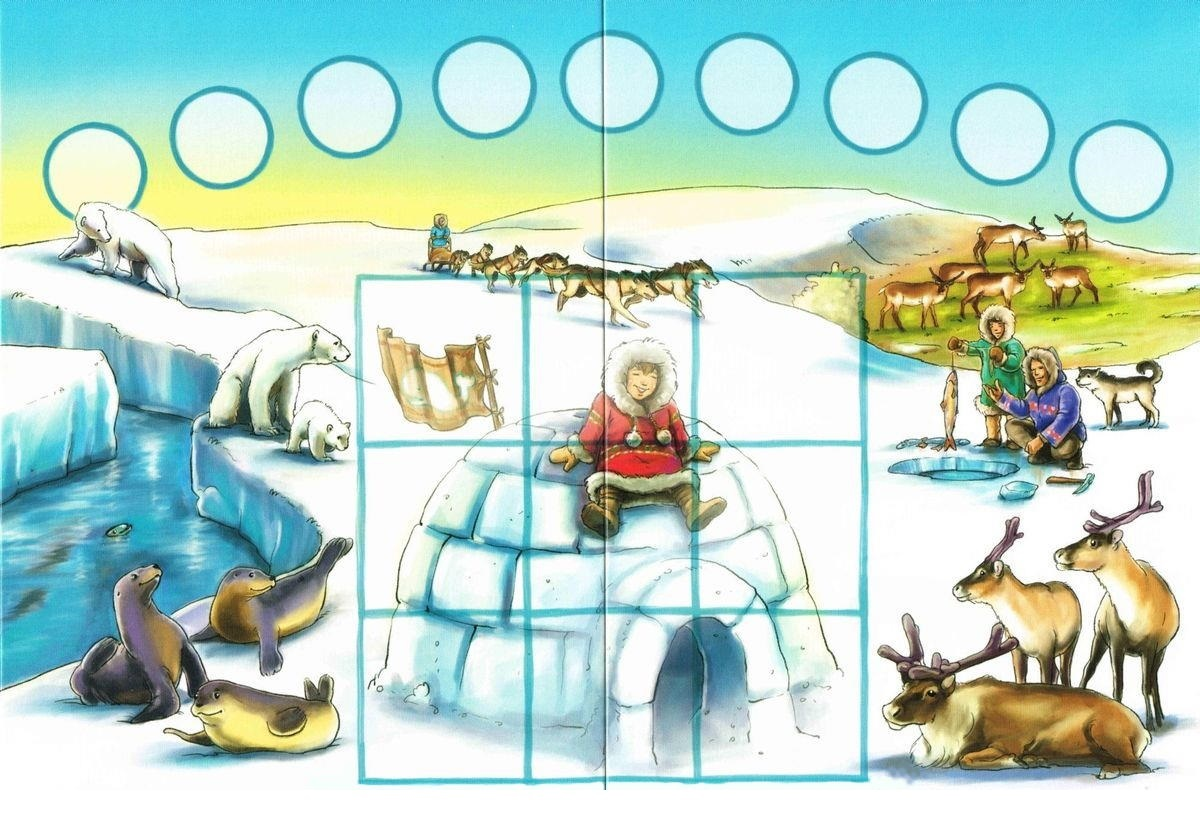
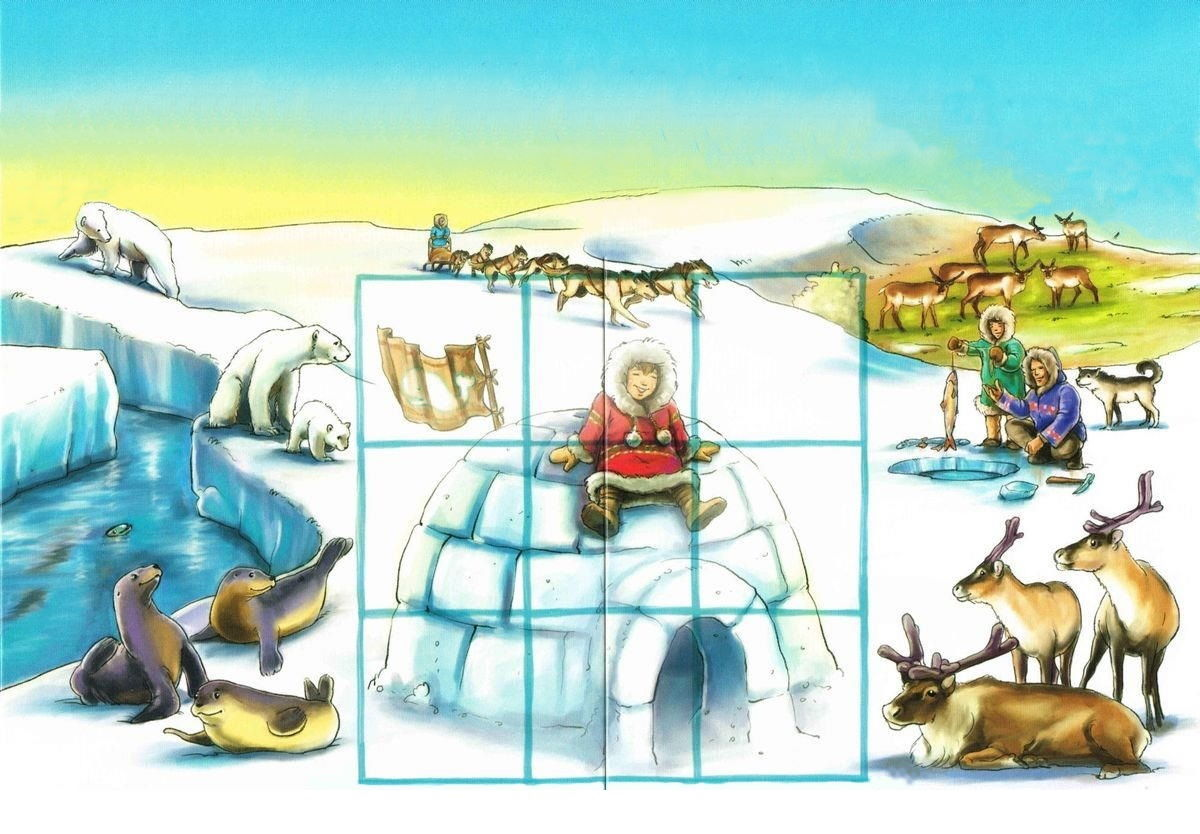
make sun position calculation dynamic, remove board template part

Changed region(s): [[0.0, 0.0, 1.0, 0.2806], [0.4933, 0.2806, 0.5242, 0.3118]]

diff --git a/assets/js/script.js b/assets/js/script.js
@@ -157,6 +157,8 @@ class Evaluation {
 const gameViewer = {
   imagePath: './assets/img/',
 
+  numberOfSunPositions: 9,
+
   tileFaces: [
     { name: Tile.NAME_REINDEER(), filename: 'tileface-reindeer.jpg', count: 9 },
     { name: Tile.NAME_POLARBEAR(), filename: 'tileface-polarbear.jpg', count: 14 },
@@ -180,7 +182,9 @@ const gameViewer = {
   ],
 
   icons: [
-    { name: 'collect-tiles', filename: 'icon-collect-tiles.png', clickable: true, parentId: 'title', height: '9vh', topLeftCorner: [0, 0.885] },
+    { name: 'collect-tiles', count: 1, filename: 'icon-collect-tiles.png', clickable: true, parentId: 'title', height: 0.08, leftTopCorners: [[0.885, 0]] },
+    { name: 'sun-position', count: 9, filename: 'icon-sun-position.png', clickable: false, parentId: 'title', height: 0.05, leftTopCorners: [] },
+    { name: 'piece-sun', count: 1, filename: 'piece-sun.png', clickable: false, parentId: 'title', height: 0.05, leftTopCorners: [] },
   ],
 
   tileBack: { filename: 'tileback-ice.jpg', flipTimeMS: 800 },
@@ -193,23 +197,6 @@ const gameViewer = {
     meepleOnBoardWidth: 0.025,
     meeplesOnBoardFromTop: 0.65,
     meeplesOnBoardFromLeft: [0.02, 0.16, 0.73, 0.86],
-  },
-
-  sunPiece: { id: 'piece-sun', filename: 'piece-sun.png', length: 0.08556 },
-
-  sunPositions: {
-    id: 'piece-sun-positions',
-    filename: 'enuk-sun-positions.png',
-    centers: [
-      [0.146, 0.0728],
-      [0.115, 0.185],
-      [0.09, 0.291],
-      [0.074, 0.404],
-      [0.068, 0.51],
-      [0.07, 0.622],
-      [0.086, 0.73],
-      [0.112, 0.835],
-      [0.143, 0.935]],
   },
 
   meeplePieces: [
@@ -225,14 +212,49 @@ const gameViewer = {
     bodyElement.style.backgroundImage = `url("${this.imagePath}${backgroundFile}")`;
   },
 
+  calculateSunPositions: function (rectWidth, rectHeight, iconSideLength, numberOfPositions) {
+    sunPositions = [];
+    const halfIconSideLength = iconSideLength / 2;
+
+    // calculate r radius
+    // learnt about Math.pow() here: https://developer.mozilla.org/en-US/docs/Web/JavaScript/Reference/Global_Objects/Math/pow
+    const r = Math.pow(rectWidth - iconSideLength, 2) / 8 / (rectHeight - iconSideLength) + (rectHeight - iconSideLength) / 2;
+    // calculate angle between 2 adjacent positions
+    // learnt about Math.asin() here: https://developer.mozilla.org/en-US/docs/Web/JavaScript/Reference/Global_Objects/Math/asin
+    const opposite = (rectWidth - iconSideLength) / 2;
+    const hypotenuse = r;
+    const angleStartToFinish = 2 * Math.asin(opposite / hypotenuse);
+    const angleOnePos = angleStartToFinish / (numberOfPositions - 1);
+
+    // learnt about rotation here: https://math.stackexchange.com/questions/270194/how-to-find-the-vertices-angle-after-rotation
+    // rotate point (x,y) into (x′,y′) about point (p,q) counterclockwise by angle θ
+    // x′ = (x−p)cos(θ) − (y−q)sin(θ) + p
+    // y′ = (x−p)sin(θ) + (y−q)cos(θ) + q
+
+    // calculate rotation center (p,q)
+    p = rectWidth / 2;
+    q = iconSideLength / 2 + r;
+    // set up first position (left hand side)
+    let x0 = iconSideLength / 2;
+    let y0 = rectHeight - iconSideLength / 2;
+    // store the icon's top-left corner as (distance from Left side, distance from Top)
+    sunPositions.push([(x0 - halfIconSideLength) / rectWidth, (y0 - halfIconSideLength) / rectWidth]);
+    // calculate rest of the positions relative to the first positon by increasing the angle
+    let angle = 0;
+    for (let i = 1; i < numberOfPositions; i++) {
+      angle += angleOnePos;
+      x = (x0 - p) * Math.cos(angle) - (y0 - q) * Math.sin(angle) + p;
+      y = (x0 - p) * Math.sin(angle) + (y0 - q) * Math.cos(angle) + q;
+      sunPositions.push([(x - halfIconSideLength) / rectWidth, (y - halfIconSideLength) / rectWidth]);
+    }
+    return sunPositions;
+  },
+
   generateGameBoard: function (tiles, tilesOnTable, players, isTest) {
     // put game board in place
     let boardPiecesHTML = "";
     // add BOARD to game space
     boardPiecesHTML = `<img id="${this.boardPiece.id}" src="${this.imagePath}${this.boardPiece.name}" alt="game board">`;
-
-    // addd SUN piece to the top of the board
-    boardPiecesHTML += `<img id="${this.sunPiece.id}" src="${this.imagePath}${this.sunPiece.filename}" alt="game piece sun">`;
 
     // add hidden IGLOO TILES to the middle of the board
     boardPiecesHTML += `<div id="tiles-onigloo" class="layer-onigloo">`;
@@ -272,19 +294,26 @@ const gameViewer = {
 
     // add icons
     for (let icon of this.icons) {
-      icon.id = 'icon-' + icon.name;
-      const iconElement = document.createElement('img');
-      iconElement.setAttribute('id', icon.id);
-      iconElement.setAttribute('src', this.imagePath + icon.filename);
-      iconElement.setAttribute('alt', icon.name + ' button');
-      iconElement.addEventListener('click', gameController.handleIconClick);
-      iconElement.style.position = 'absolute';
-      iconElement.style.height = icon.height;
-      iconElement.style.top = `var(--${icon.id}-fromtop)`;
-      iconElement.style.left = `var(--${icon.id}-fromleft)`;
-      // append icon to parent
+      // grab parent
       const parentElement = document.getElementById(icon.parentId);
-      parentElement.appendChild(iconElement);
+      icon.id = `icon-${icon.name}`;
+      for (let i = 0; i < icon.count; i++) {
+        const iconElement = document.createElement('img');
+        iconElement.setAttribute('id', `${icon.id}${i}`);
+        iconElement.setAttribute('src', this.imagePath + icon.filename);
+        if (icon.clickable) {
+          iconElement.addEventListener('click', gameController.handleIconClick);
+          iconElement.setAttribute('alt', icon.name + ' button');
+        } else {
+          iconElement.setAttribute('alt', icon.name + ' icon');
+        }
+        iconElement.classList.add('icon-position');
+        if (icon.name === 'sun-position') {
+          iconElement.style.opacity = '50%';
+        }
+        // append icon to parent
+        parentElement.appendChild(iconElement);
+      }
     }
 
     // assemble tiles
@@ -311,19 +340,10 @@ const gameViewer = {
 
   setBoardPiecesPosition: function (sunPosition, numberOfPlayers) {
     const boardElement = document.getElementById(this.boardPiece.id);
-    const boardWidth = boardElement.clientWidth;
-    const boardLeftOffset = boardElement.offsetLeft;
+    let boardWidth = boardElement.clientWidth;
+    let boardLeftOffset = boardElement.offsetLeft;
     // flip transition time
     document.documentElement.style.setProperty('--flip-transition-time', `${gameViewer.tileBack.flipTimeMS}ms`);
-    // sun piece position
-    const sunLength = boardWidth * this.sunPiece.length;
-    document.documentElement.style.setProperty('--piece-sun-length', `${sunLength}px`);
-    document.documentElement.style.setProperty('--piece-sun-fromtop',
-      `${boardWidth * this.sunPositions.centers[sunPosition][0] - sunLength / 2}px`);
-    document.documentElement.style.setProperty('--piece-sun-fromleft',
-      `${boardLeftOffset + boardWidth * this.sunPositions.centers[sunPosition][1] - sunLength / 2}px`);
-    document.documentElement.style.setProperty('--piece-sun-rotate',
-      `${sunPosition * 130}deg`);
     // igloo3x3 on board position
     const iglooLength = boardWidth * this.boardPiece.iglooLength;
     document.documentElement.style.setProperty('--piece-igloo-length', `${iglooLength}px`);
@@ -344,10 +364,28 @@ const gameViewer = {
       document.documentElement.style.setProperty(`--tiles-stack-fromleft${i}`,
         `${boardLeftOffset + boardWidth * this.boardPiece.meeplesOnBoardFromLeft[i]}px`);
     }
-    // icon position
+    // icon positions
+    let element = null;
+    let leftTopCorner = null;
+    let leftTopCorners = null;
     for (let icon of this.icons) {
-      document.documentElement.style.setProperty(`--${icon.id}-fromtop`, `${boardWidth * icon.topLeftCorner[0]}px`);
-      document.documentElement.style.setProperty(`--${icon.id}-fromleft`, `${boardLeftOffset + boardWidth * icon.topLeftCorner[1]}px`);
+      // learnt about getBoundingClientRect() here: https://stackoverflow.com/questions/294250/how-do-i-retrieve-an-html-elements-actual-width-and-height
+      let parentRect = document.getElementById(icon.parentId).getBoundingClientRect()
+      if (icon.name === 'sun-position') {
+        icon.leftTopCorners = this.calculateSunPositions(parentRect.width, parentRect.height, parentRect.width * icon.height, icon.count);
+        leftTopCorners = icon.leftTopCorners;
+      } else if (icon.name == 'piece-sun') {
+        document.documentElement.style.setProperty('--piece-sun-rotate', `${sunPosition * 130}deg`);
+      }
+      for (let i = 0; i < icon.count; i++) {
+        element = document.getElementById(`${icon.id}${i}`);
+        if (icon.name == 'piece-sun') {
+          leftTopCorner = leftTopCorners[sunPosition];
+        } else { leftTopCorner = icon.leftTopCorners[i]; }
+        element.style.height = `${parentRect.width * icon.height}px`;
+        element.style.left = `${parentRect.width * leftTopCorner[0]}px`;
+        element.style.top = `${parentRect.width * leftTopCorner[1]}px`;
+      }
     }
   },
 };
@@ -558,7 +596,7 @@ const gameController = {
       return;
     }
     // if clicked on the CollecTiles icon
-    if (event.currentTarget.id === gameViewer.icons[0].id
+    if (event.currentTarget.id === gameViewer.icons[0].id + '0'
       // and it is the Human player's move
       && gameController.whosMove === gameController.human) {
       let evaluationResult = gameController.evaluateTilesOnTablePhase1(null, true);
@@ -609,7 +647,7 @@ const gameController = {
 
     // Phase_1 ends if
     // last tile is a reindeer AND the sun reached the last place
-    if (evaluation.isSunToBeMoved && this.sunPosition === gameViewer.sunPositions.centers.length - 2) {
+    if (evaluation.isSunToBeMoved && this.sunPosition === gameViewer.numberOfSunPositions - 2) {
       evaluation.isEndOfPhase1 = true;
     }
     // move ends if
@@ -628,7 +666,7 @@ const gameController = {
 
   actOnEvaluation: function (evaluation) {
     if (evaluation.isSunToBeMoved
-      && this.sunPosition < gameViewer.sunPositions.centers.length - 1) {
+      && this.sunPosition < gameViewer.numberOfSunPositions - 1) {
       this.sunPosition++;
       gameViewer.setBoardPiecesPosition(this.sunPosition, this.numberOfPlayers);
     }

diff --git a/assets/css/style.css b/assets/css/style.css
@@ -7,26 +7,25 @@
     --tile-normal-side: 6rem;
     --header-height: 10vh;
 }
-header {
+body {
+  background: url("") center top / cover;
+}
+#header {
+  position: relative;
+  width: 100%;
   max-width: 1200px;
   height: var(--header-height);
   margin: 0 auto;
 }
-#sun-positions {
-  position: relative;
-  height: var(--header-height);
-  background: url("../img/enuk-sun-positions.png") center / contain no-repeat;
-  top: calc(-1 * var(--header-height));
-  opacity: 50%;
-}
-body {
-  background: url("") center top / cover;
-  text-align: center;
-}
 #title {
-  width:100%;
   height: 10vh;
   background: url("../img/enuk-title.png") center / contain no-repeat;
+}
+.icon-position{
+  position: absolute;
+}
+main {
+  text-align: center;
 }
 #board {
   position: relative;
@@ -36,11 +35,8 @@ body {
   width: 100%;
   max-width: 1200px;
 }
-#piece-sun {
+#icon-piece-sun0 {
   position: absolute;
-  width: var(--piece-sun-length);
-  top: var(--piece-sun-fromtop);
-  left: var(--piece-sun-fromleft);
   transform: rotate(var(--piece-sun-rotate));
   transition: top 2s linear, left 2s linear, transform 2s linear;
 }

diff --git a/index.html b/index.html
@@ -7,20 +7,18 @@
     <meta name="viewport" content="width=device-width, initial-scale=1">
     <title>Enuk</title>
     <link rel="icon" href="./assets/img/enuk-logo.png">
-    <link href="./assets/css/style.css" rel="stylesheet" type="text/css">
+    <link href="./assets/css/style.css" type="text/css" rel="stylesheet" >
+    <script src="./assets/js/script.js" type="text/javascript"></script>
 </head>
 
 <body>
-    <header>
+    <header id="header">
         <div id="title"></div>
-        <div id="sun-positions"></div>
     </header>
     <main>
         <div id="tiles"></div>
         <div id="board"></div>
     </main>
-
-    <script src="./assets/js/script.js" type="text/javascript"></script>
 </body>
 
 </html>
